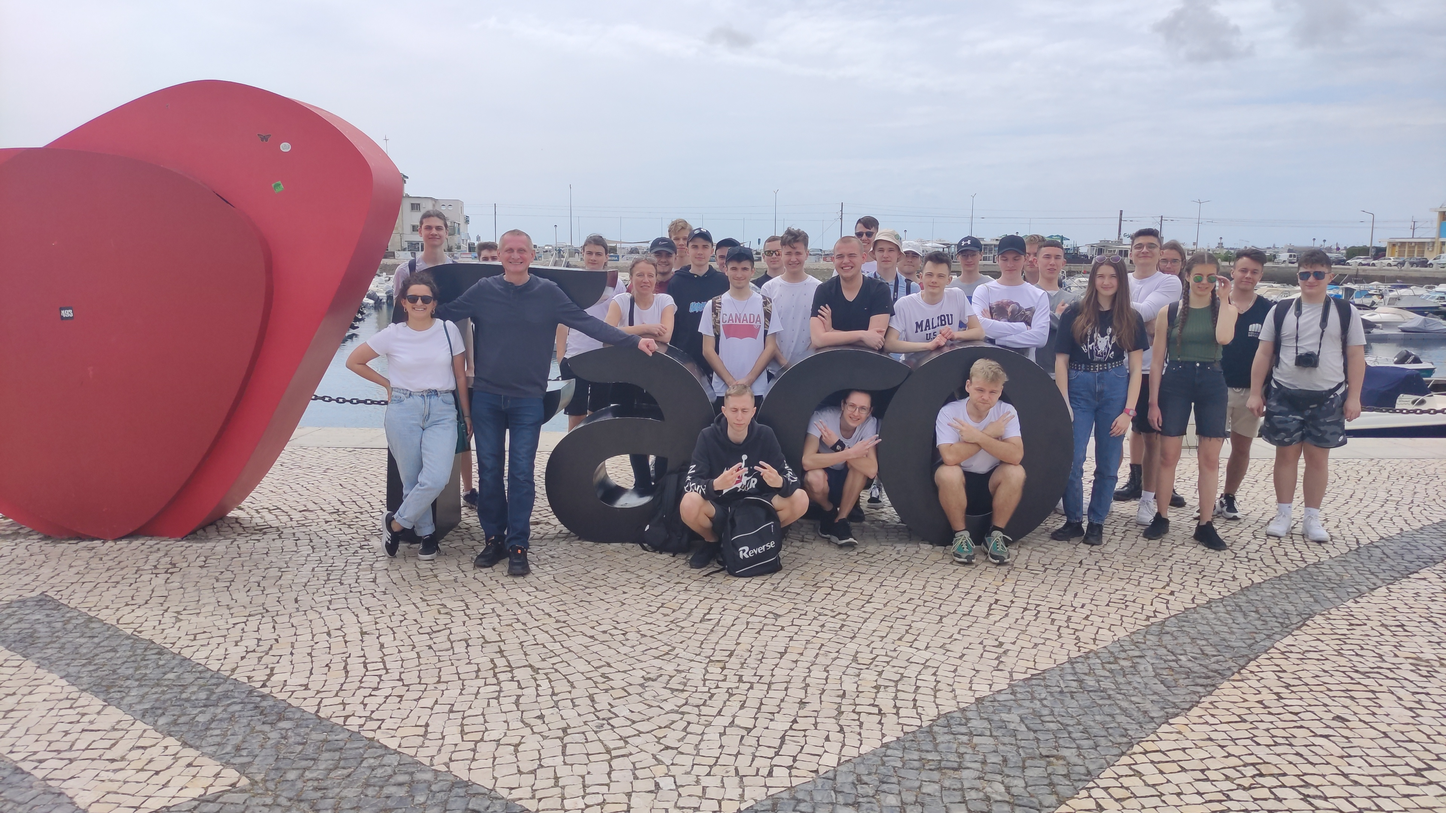
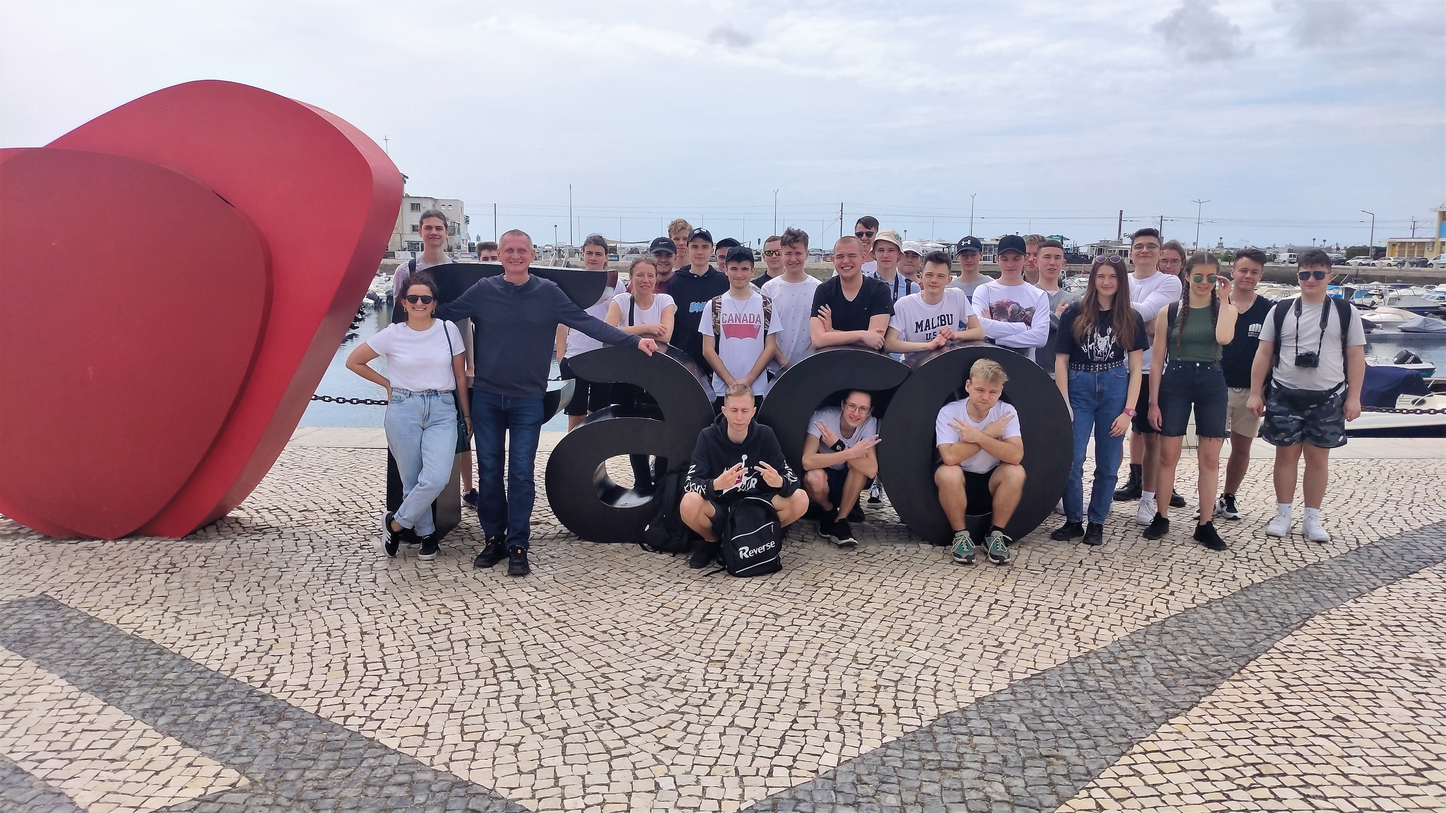
chore: content update + add lightboxes to participants page

diff --git a/pages/uczestnicy.tsx b/pages/uczestnicy.tsx
@@ -5,7 +5,7 @@ import HeaderBanner from "../components/index/HeaderBanner";
 import Navbar from "../components/Navbar";
 import TextHeader from "../components/TextHeader";
 import InfoGraphics from "../components/InfoGraphics";
-import React from "react";
+import React, { useState } from "react";
 import StudentList from "../components/uczestnicy/StudentList";
 import inf from "../public/photos/grupy/inf.jpg";
 import aut from "../public/photos/grupy/aut.jpg";
@@ -13,6 +13,7 @@ import ele from "../public/photos/grupy/ele.jpg";
 import all from "../public/photos/grupy/all.jpg";
 import Image from "next/image";
 import TeacherList from "../components/uczestnicy/TeacherList";
+import FsLightbox from "fslightbox-react";
 
 const Uczestnicy: NextPage = () => {
   const IT = [
@@ -101,9 +102,11 @@ const Uczestnicy: NextPage = () => {
     {
       name: "mgr inż. Maria Materna",
     },
+  ];
+
+  const teachers2 = [
     {
-      name: "Olavo Santos",
-      occupation: "język portugalski"
+      name: "Bruno Gameiro"
     },
     {
       name: "Natalia Chojecka",
@@ -112,10 +115,22 @@ const Uczestnicy: NextPage = () => {
       name: "Adriana Galek"
     },
     {
-      name: "Bruno Gameiro"
-    },
+      name: "Olavo Dos Santos"
+    }
   ];
 
+  const [lightboxController, setLightboxController] = useState({
+    toggler: false,
+    slide: 1,
+  });
+
+  function openLightboxOnSlide(number: number) {
+    setLightboxController({
+      toggler: !lightboxController.toggler,
+      slide: number,
+    });
+  }
+  
   return (
     <div>
       <Head>
@@ -126,61 +141,70 @@ const Uczestnicy: NextPage = () => {
         />
       </Head>
       <Navbar />
-
+      <FsLightbox
+        toggler={lightboxController.toggler}
+        sources={[inf.src, aut.src, ele.src, all.src]}
+        slide={lightboxController.slide}
+      />
       <div className="bg-gray-100 py-8">
         <div className="container mx-auto overflow-x-hidden">
           <TextHeader left="Uczestnicy" right="projektu" />
+          <p className="mb-10 text-center text-xl">
+            Uczniowie Zespołu Szkół Elektronicznych w Rzeszowie
+          </p>
           <div className="flex flex-wrap sm:-mx-4 md:-mx-6 mb-10">
             <div className="w-full sm:w-1/3 sm:px-4 md:px-6 mb-10 sm:mb-0">
-              <h2 className="text-xl font-bold mb-3">Informatycy</h2>
+              <h2 className="text-xl font-bold mb-3">Technik informatyk</h2>
               <StudentList list={IT} />
-              <div className="shadow flex rounded-lg mb-1">
+              <button className="shadow flex rounded-lg mb-1" onClick={() => openLightboxOnSlide(1)}>
                 <Image
                   src={inf}
                   className="rounded-lg"
                   alt=""
                   placeholder="blur"
                 />
-              </div>
+              </button>
             </div>
             <div className="w-full sm:w-1/3 sm:px-4 md:px-6 mb-10 sm:mb-0">
-              <h2 className="text-xl font-bold mb-3">Elektronicy</h2>
+              <h2 className="text-xl font-bold mb-3">Technik elektronik</h2>
               <StudentList list={electronics} />
-              <div className="shadow flex rounded-lg mb-1">
+              <button className="shadow flex rounded-lg mb-1" onClick={() => openLightboxOnSlide(2)}>
                 <Image
                   src={aut}
                   className="rounded-lg"
                   alt=""
                   placeholder="blur"
                 />
-              </div>
+              </button>
             </div>
             <div className="w-full sm:w-1/3 sm:px-4 md:px-6 mb-10 sm:mb-0">
-              <h2 className="text-xl font-bold mb-3">Automatycy</h2>
+              <h2 className="text-xl font-bold mb-3">Technik automatyk</h2>
               <StudentList list={automatics} />
-              <div className="shadow flex rounded-lg mb-1">
+              <button className="shadow flex rounded-lg mb-1" onClick={() => openLightboxOnSlide(3)}>
                 <Image
                   src={ele}
                   className="rounded-lg"
                   alt=""
                   placeholder="blur"
                 />
-              </div>
+              </button>
             </div>
           </div>
           <div className="flex flex-col sm:flex-row items-start" id="opiekunowie">
             <div className=" w-full sm:w-1/3 md:mr-8">
-              <h2 className="text-xl font-bold mb-3">Opiekunowie</h2>
+              <h2 className="text-xl font-bold mb-3">Polscy opiekunowie młodzieży podczas praktyk</h2>
               <TeacherList list={teachers} />
+              <h2 className="text-xl font-bold mb-3">Portugalscy opiekunowie młodzieży podczas praktyk</h2>
+              <TeacherList list={teachers2} />
             </div>
-            <div className="sm:w-2/3 flex items-center justify-center relative bg-white rounded-lg shadow  mb-4 sm:mb-0 sm:mt-10">
+            <button className="sm:w-2/3 flex items-center justify-center relative bg-white rounded-lg shadow  mb-4 sm:mb-0" onClick={() => openLightboxOnSlide(1)}>
               <Image
                 src={all}
                 className="rounded-lg"
                 alt=""
                 placeholder="blur"
               />
-            </div>
+            </button>
           </div>
         </div>
       </div>

diff --git a/pages/index.tsx b/pages/index.tsx
@@ -34,12 +34,12 @@ const Home: NextPage = () => {
                 />
                 <InfoGraphics
                   icon="bi-people"
-                  boldText="8"
-                  text="nauczycieli i opiekunów"
+                  boldText="20"
+                  text="trenerów i organizatorów"
                   href="/uczestnicy#opiekunowie"
                 />
-                <InfoGraphics icon="bi-calendar" boldText="21" text="dni" href="/przebieg" />
-                <InfoGraphics icon="bi-building" boldText="8" text="firm" href="/instytucje#firmy" />
+                <InfoGraphics icon="bi-calendar" boldText="3" text="tygodnie stażu" href="/praktyki" />
+                <InfoGraphics icon="bi-building" boldText="10" text="firm i instytucji" href="/instytucje" />
                 <InfoGraphics
                   icon="bi-compass-fill"
                   boldText="8"

diff --git a/components/index/HeaderBanner.tsx b/components/index/HeaderBanner.tsx
@@ -7,7 +7,7 @@ export default function HeaderBanner() {
   return (
     <div className="header-banner relative">
       <Image src={image} alt="Zdjęcie grupowe" layout="fill" objectFit="cover" objectPosition="75% 50%" />
-      <div className="absolute top-0 right-0 bg-gray-900 bg-opacity-40 w-full h-full flex items-end justify-center sm:justify-start" placeholder="blur">
+      <div className="absolute top-0 right-0 bg-gray-900 bg-opacity-20 w-full h-full flex items-end justify-center sm:justify-start" placeholder="blur">
         <div className="mb-6 sm:ml-24 flex flex-col items-start">
           <div className="bg-white py-2 px-4 rounded-t-xl">
             <p className="text-sm lg:text-base">Praktyki Erasmus+ w Portugalii</p>
